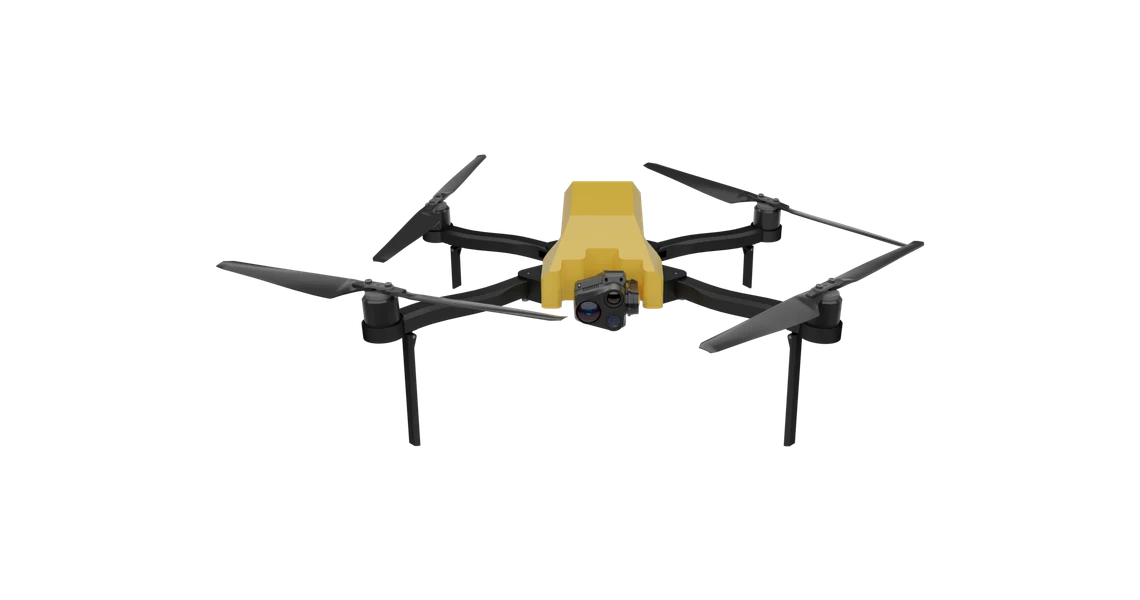
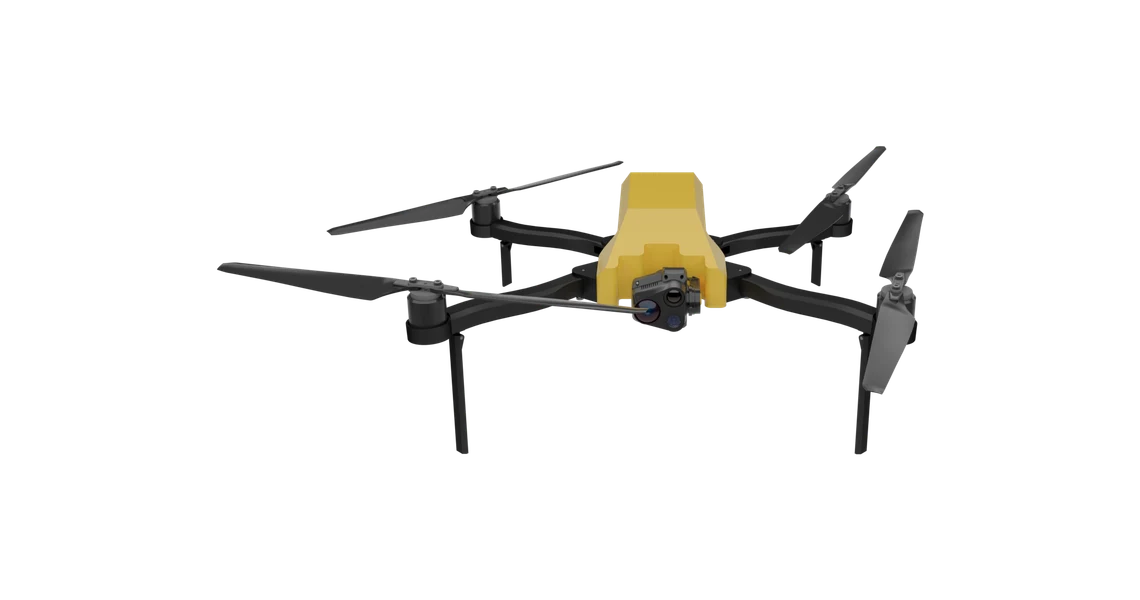
feat(noxr): replace the hero sequence with the V2 render
Both tiers rebuilt from the new 160-frame export through the same
build-sequence.mjs at q96: 3.6 MB at 1280x720 and 7.1 MB at the native
2560x1440. Alpha intact, atomic swap, no staging left behind.

firstFrameSubjectWidth moves 0.2188 -> 0.1445, and that is the part worth
noticing. The subject spans 1092..1462 of 2560 where the first render gave
982..1542, so V2 starts the aircraft a third smaller. Carrying the old
number across would have told FieldSequence the aircraft was half again the
size it is: the mobile baseline is solved against exactly this figure, so it
would have stopped enlarging at two thirds of the intended size and the
sequence would have looked soft with nothing on the page to explain it.

At 0.1445 this is now the tightest of the three products -- the Mini is
0.336 -- so the page leans hardest on the larger build. That is the trade
pickTier already documents rather than a new one.

The poster is regenerated from V2's frame 51 at the same 62% subject width,
still a downscale rather than an upscale. V2's frame 51 is a three-quarter
view where V1's was dead head-on, so the animation has genuinely changed and
the poster was not simply reusable.

Verified: 160 frames served from noxr2k at 7.13 MB, frame 0 decoding at
2560x1440, zero console errors.

Claude-Session: https://claude.ai/code/session_019sGALJ2k2c8b1PKH7dQQBV

Changed region(s): [[0.1842, 0.24, 0.8289, 0.75]]

diff --git a/src/components/field/product.ts b/src/components/field/product.ts
@@ -615,11 +615,20 @@ export const NOXR: ProductPage = {
     heroFrames: 160,
     endFrames: 40,
     /* Measured off frame 1's alpha bounding box: the subject spans
-       982..1542 of 2560. Markedly tighter than the Mini's 0.336, which is
-       the reason this is re-measured per product rather than shared — at
-       the Mini's number FieldSequence would have shrunk this aircraft to
-       two thirds of the size the render intends. */
-    firstFrameSubjectWidth: 0.2188,
+       1092..1462 of 2560.
+
+       RE-MEASURED FOR THE V2 RENDER, and it moved a long way — the first
+       render put the subject at 0.2188 (982..1542) and this one starts the
+       aircraft a third smaller. Carrying the old number across would have
+       told FieldSequence the aircraft was half again the size it is, and
+       the mobile baseline is solved against exactly this: it would have
+       stopped enlarging the frame at two thirds of the intended size and
+       the sequence would have looked soft with nothing to explain it.
+
+       It is also the tightest of the three products — the Mini is 0.336 —
+       so this page leans hardest on the larger build. That is the trade
+       pickTier already documents, not a new one. */
+    firstFrameSubjectWidth: 0.1445,
   },
 
   /* THE ANCHORS ARE REAL, THE FRAMINGS ARE NOT.
